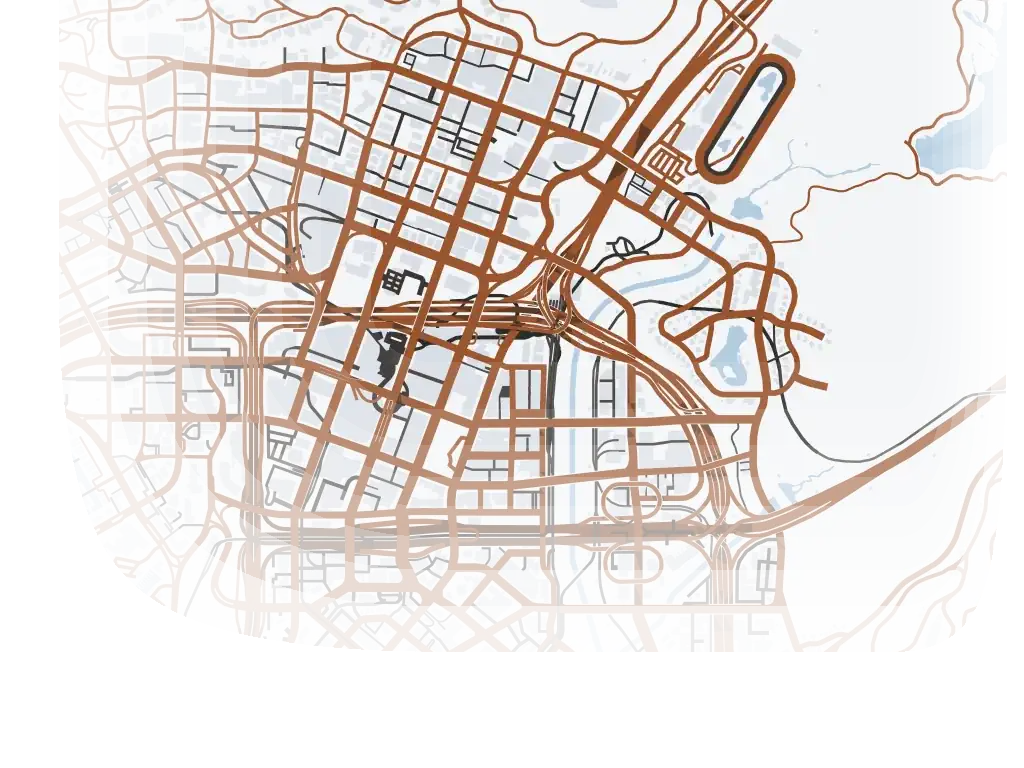
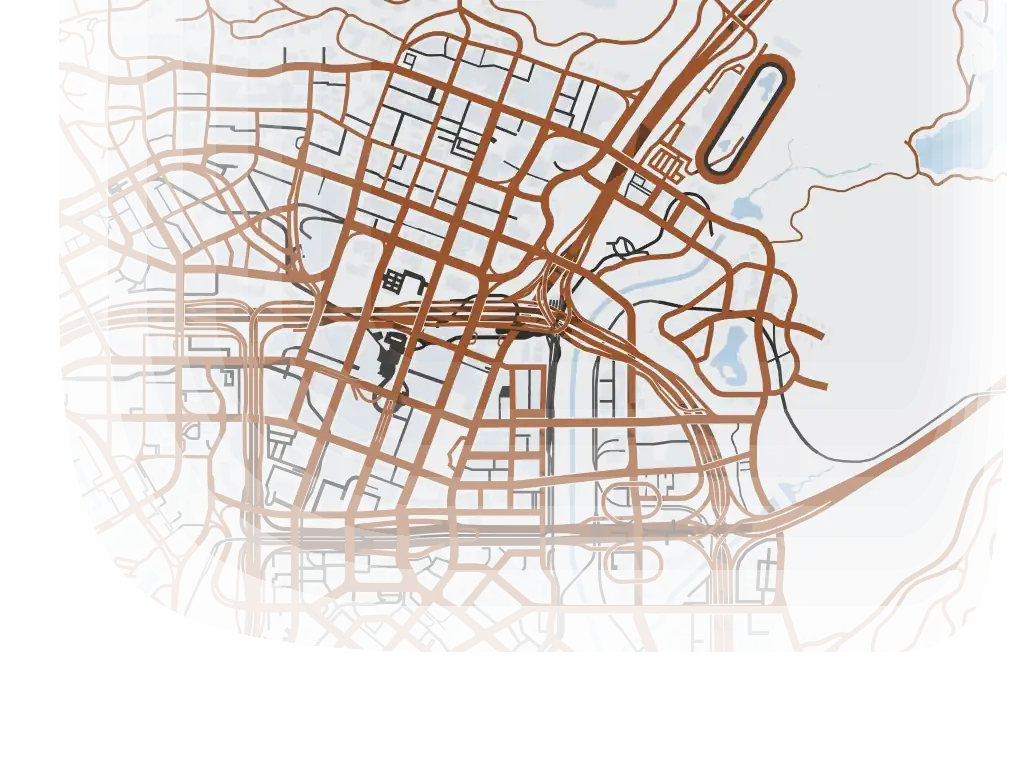
Редизайн, крок 5.1: кабінет без персонажа, кнопки цін, мапа у світлій темі [light] [admin] [routes:/,/tsiny,/kabinet,/wiki/roboty]
- Кабінет на сайті: /kabinet (і старі /dokumenty, /dashbord) одразу веде на «Заробіток» — і з формою «Додай персонажа»;
  активна вкладка видно; «Вийти» праворуч від шляху; примітка — одним абзацом
- Ціни: «Оновити ціну» для застарілих — контурна помаранчева, а не суцільна (список не стає стіною кольору);
  повністю помаранчева — лише там, де ціни ще немає; кнопки шапки на телефоні не ламають напис
- Світла тема: мапа першого екрана без білого прямокутника (картинка «затемнена до тла»)
- WIKI: число робіт у вкладці — з бази, як на сторінці «Роботи» (було 30 проти 32)
- «Увійти через Discord» без подвійного проміжку

Claude-Session: https://claude.ai/code/session_01H553QcerCQxP7MACqcLuw8

diff --git a/src/styles.css b/src/styles.css
@@ -130,6 +130,9 @@ main { width: 100%; max-width: 1240px; margin: 0 auto; padding: 32px max(24px, e
 .btn.acc:hover { background: var(--accent-press); border-color: var(--accent-press); }
 .btn.ghost { background: transparent; }
 .btn.ghost:hover { background: var(--surface2); }
+/* «зверни увагу» без повного помаранчевого тла: коли таких кнопок багато поспіль (застарілі ціни), список не стає стіною кольору */
+.btn.tint { background: transparent; border-color: color-mix(in srgb, var(--accent) 60%, transparent); color: var(--accent-hi); }
+.btn.tint:hover { background: var(--accent); border-color: var(--accent); color: var(--accent-fg); }
 .btn.sm { padding: 6px 12px; font-size: 14px; min-height: 36px; }
 .btn:disabled { opacity: .5; cursor: default; }
 button:focus-visible, a:focus-visible, input:focus-visible, select:focus-visible, textarea:focus-visible, summary:focus-visible { outline: 2px solid var(--accent); outline-offset: 2px; }
@@ -1104,7 +1107,8 @@ fieldset .static-form .btn { align-self: end; }
    краї вже розчинені в самій картинці — без CSS-масок). Текст лежить на чистому полотні ліворуч, промокод — на дорогах мапи */
 .hx-map { position: absolute; z-index: -1; top: -64px; right: -24px; width: min(1000px, 78%); aspect-ratio: 4 / 3; pointer-events: none; opacity: .38;
   background: url(./assets/hero-map-dark.webp) center / 100% 100% no-repeat; animation: q-fade var(--t-in) var(--ease-out) both; }
-:root[data-theme="light"] .hx-map { opacity: .42; background-image: url(./assets/hero-map-light.webp); }
+/* світла: картинка вже «затемнена до тла» (усе світліше за #e8e9eb прибрано) — без білого прямокутника, лише дороги й квартали */
+:root[data-theme="light"] .hx-map { opacity: .45; background-image: url(./assets/hero-map-light.webp); }
 @media (max-width: 900px) { .hx-map { top: -40px; right: -16px; width: 120%; opacity: .22; } :root[data-theme="light"] .hx-map { opacity: .3; } }
 
 /* 1. перший екран: що це — ліворуч, помаранчевий «знак» промокоду — праворуч */
@@ -1469,7 +1473,7 @@ fieldset .static-form .btn { align-self: end; }
 @media (max-width: 640px) {
   .bp { gap: 28px; }
   .bp-head p { font-size: 16px; }
-  .bp-head .row > .btn:not(.acc) { flex: 1 1 150px; }   /* дві другорядні дії — в один рядок під головною */
+  .bp-head .row > .btn { flex: 1 1 auto; white-space: nowrap; }   /* напис кнопки не ламається на два рядки: не влазить — уся кнопка переходить нижче й тягнеться на ширину */
   .bp-th { display: none; }
   .bp-list { padding: 12px; }
   /* телефон: назва — на всю ширину, під нею ціна й «Оновити ціну» одним рядком (раніше кнопка стискала назву в три рядки) */
@@ -1651,7 +1655,9 @@ a.foot-by:hover { color: var(--fg); text-decoration: underline; }
 .cab-tabs a { flex: none; border-radius: var(--rc); }
 :is(.cab, .deck) .lbl { color: var(--faint); font: 600 12px/14px var(--mono); }
 :is(.cab, .deck) .card { border-radius: var(--r); }
-:is(.cab, .deck) .card.note { border-color: color-mix(in srgb, var(--warn) 40%, transparent); background: var(--warn-soft); }
+:is(.cab, .deck) .card.note { display: block; padding: 12px 16px; font-size: 14px; line-height: 1.5; border-color: color-mix(in srgb, var(--warn) 40%, transparent); background: var(--warn-soft); }   /* текст із посиланням — одним абзацом, а не стовпчиком */
+/* сайт: «Вийти» — праворуч від шляху, а не окремим рядком під ним */
+.cab > .wiki-top { flex-direction: row; flex-wrap: wrap; align-items: center; justify-content: space-between; gap: 10px 16px; }
 :is(.cab, .deck) .big { font-weight: 700; letter-spacing: -.03em; }
 :is(.cab, .deck) .li small { color: var(--faint); }
 :is(.cab, .deck) .seg { background: var(--bg); border-color: var(--line2); }

diff --git a/src/pages/Wiki.tsx b/src/pages/Wiki.tsx
@@ -15,11 +15,14 @@ export default function Wiki() {
     <NavLink to={to} role="tab" onClick={vnav(to)}>{({ isActive }) => <><Icon name={ico} size={16} />{label}{extra}{isActive && <span className="wiki-line" aria-hidden="true" />}</>}</NavLink>
   );
   const [cars, setCars] = useState<number | null>(null);
+  /* робіт — стільки ж, скільки на сторінці «Роботи» (довідник у базі, з доданими гравцями); бази немає — вбудований список */
+  const [jobsN, setJobsN] = useState(JOBS.length);
   /* скільки сезонних івентів триває зараз (specs/055); 0 не показуємо */
   const [live, setLive] = useState(0);
   useEffect(() => {
     if (!supabase) return;
     supabase.from('vehicles').select('id', { count: 'exact', head: true }).then(({ count, error }) => { if (!error && count != null) setCars(count); });
+    supabase.from('jobs').select('*', { count: 'exact', head: true }).then(({ count, error }) => { if (!error && count) setJobsN(count); });
     const today = kyivDay(Date.now());
     supabase.from('season_events').select('starts_on,ends_on').then(({ data }) =>
       setLive((data || []).filter(e => phase(e.starts_on, e.ends_on, today).kind === 'now').length));
@@ -31,7 +34,7 @@ export default function Wiki() {
       <div className="wiki-top">
         <nav className="wiki-crumbs mono" aria-label="Де ти зараз"><Link to="/">Q-Hub</Link><span aria-hidden="true">/</span><Link to="/wiki">WIKI</Link><span aria-hidden="true">/</span><span aria-current="page">{here}</span></nav>
         <div className="wiki-tabs" role="tablist" aria-label="Розділ WIKI">
-          {tab('/wiki/roboty', 'jobs', 'Роботи', <span className="cnt mono">{JOBS.length}</span>)}
+          {tab('/wiki/roboty', 'jobs', 'Роботи', <span className="cnt mono">{jobsN}</span>)}
           {tab('/wiki/transport', 'car', 'Транспорт', cars != null && <span className="cnt mono">{cars}</span>)}
           {tab('/wiki/iventy', 'spark', 'Івенти', live > 0 && <span className="cnt mono" title="Тривають зараз">{live}</span>)}
           {tab('/wiki/gaidy', 'book', 'Гайди')}

diff --git a/src/pages/cabinet/Characters.tsx b/src/pages/cabinet/Characters.tsx
@@ -3,6 +3,7 @@ import { useAuth } from '../../lib/auth';
 import { supabase } from '../../lib/supabase';
 import { money, parseMoney } from '../../lib/format';
 import { MAX_CHARACTERS, parseCharacter } from '../../lib/character';
+import { desktop } from '../../lib/app';
 
 /* персонажі акаунта: у кожного свої Ім'я_Прізвище і статік (specs/025), не більше трьох; статік видно лише власнику */
 export default function Characters({ first }: { first?: boolean }) {
@@ -47,7 +48,7 @@ export default function Characters({ first }: { first?: boolean }) {
     <div className="grid side">
       <section className="card">
         <h2>{first ? 'Додай свого персонажа' : 'Новий персонаж'}</h2>
-        {first && <p className="muted">У кожного персонажа свої Ім’я_Прізвище, статік і документи.</p>}
+        {first && <p className="muted">У кожного персонажа свої Ім’я_Прізвище, статік і {desktop ? 'документи' : 'заробіток'}.</p>}
         {full ? <p className="muted">В акаунті вже {MAX_CHARACTERS} персонажі — більше не можна. Щоб додати нового, видали одного в списку «Твої персонажі».</p> : <>
           <form className="form cols addchar" onSubmit={add}>
             <label className="fld">Ім'я_Прізвище, як у грі<input value={name} onChange={e => setName(e.target.value)} placeholder="Dmitriy_Core" maxLength={40} spellCheck={false} /></label>

diff --git a/src/pages/Prices.tsx b/src/pages/Prices.tsx
@@ -476,7 +476,7 @@ export default function Prices() {
                           </form>
                         : <b className="mono">{r.shown ? money(r.shown) : '—'}</b>}
                       {!editing && <small className="muted">за {r.items!.unit}</small>}
-                      {!editing && session && v.canUpdate && <button type="button" className={'btn sm ' + (old || !r.at ? 'acc' : 'ghost')} onClick={() => setEdit({ ...edit, [key]: r.shown ? String(r.shown) : '' })}>Оновити ціну</button>}
+                      {!editing && session && v.canUpdate && <button type="button" className={'btn sm ' + (!r.at ? 'acc' : old ? 'tint' : 'ghost')} onClick={() => setEdit({ ...edit, [key]: r.shown ? String(r.shown) : '' })}>Оновити ціну</button>}
                       {!editing && v.pending && pend.filter(p => p.buyer_id === r.buyer_id && p.item_id === r.item_id).sort((a, b) => b.votes - a.votes).slice(0, 2).map(p =>
                         <small key={p.price} className="warn" title="Цю ціну внесли не всі потрібні гравці: поточною вона стане, коли ту саму внесе ще хтось">нова: {money(p.price)} · {p.votes} з {p.need}
                           {isAdmin && <> · <button type="button" className="linkbtn" onClick={() => confirmPend(r, p)}>підтвердити</button></>}</small>)}

diff --git a/src/components/Layout.tsx b/src/components/Layout.tsx
@@ -100,7 +100,7 @@ export default function Layout() {
           <NotificationBell />
           {session
             ? <NavLink to="/kabinet" className="btn sm who-me">{avatar && <img src={avatar} alt="" width={26} height={26} />}<span className="who-name">{name || 'Кабінет'}</span></NavLink>
-            : <button className="btn acc sm" onClick={signIn}>Увійти<span className="wide-only"> через Discord</span></button>}
+            : <button className="btn acc sm" onClick={signIn}><span>Увійти<span className="wide-only"> через Discord</span></span></button>}
         </div>
       </header>
       {/* сторінки, крім головної, вантажаться окремими файлами (App.tsx) — поки вантажиться, місце під сторінку тримаємо, щоб підвал не стрибав */}

diff --git a/src/pages/cabinet/Cabinet.tsx b/src/pages/cabinet/Cabinet.tsx
@@ -60,6 +60,8 @@ export default function Cabinet() {
   );
 
   const seg = pathname.split('/')[2] || '';
+  /* сайт: дашборду й документів немає — і без персонажа (форма «Додай персонажа»), і з ним /kabinet відкриває «Заробіток» */
+  if (!desktop && (seg === '' || seg === 'dashbord' || seg === 'dokumenty')) return <Navigate to="/kabinet/zarobitok" replace />;
   const tab = TABS.find(t => t[0] === seg) ?? TABS[0];
   /* на сайті людину видно лише за ніком акаунта (specs/025 FR-011); поки ніка немає — ім'я Discord */
   const who = nick ? <b>{nick}</b> : <>{name}</>;
